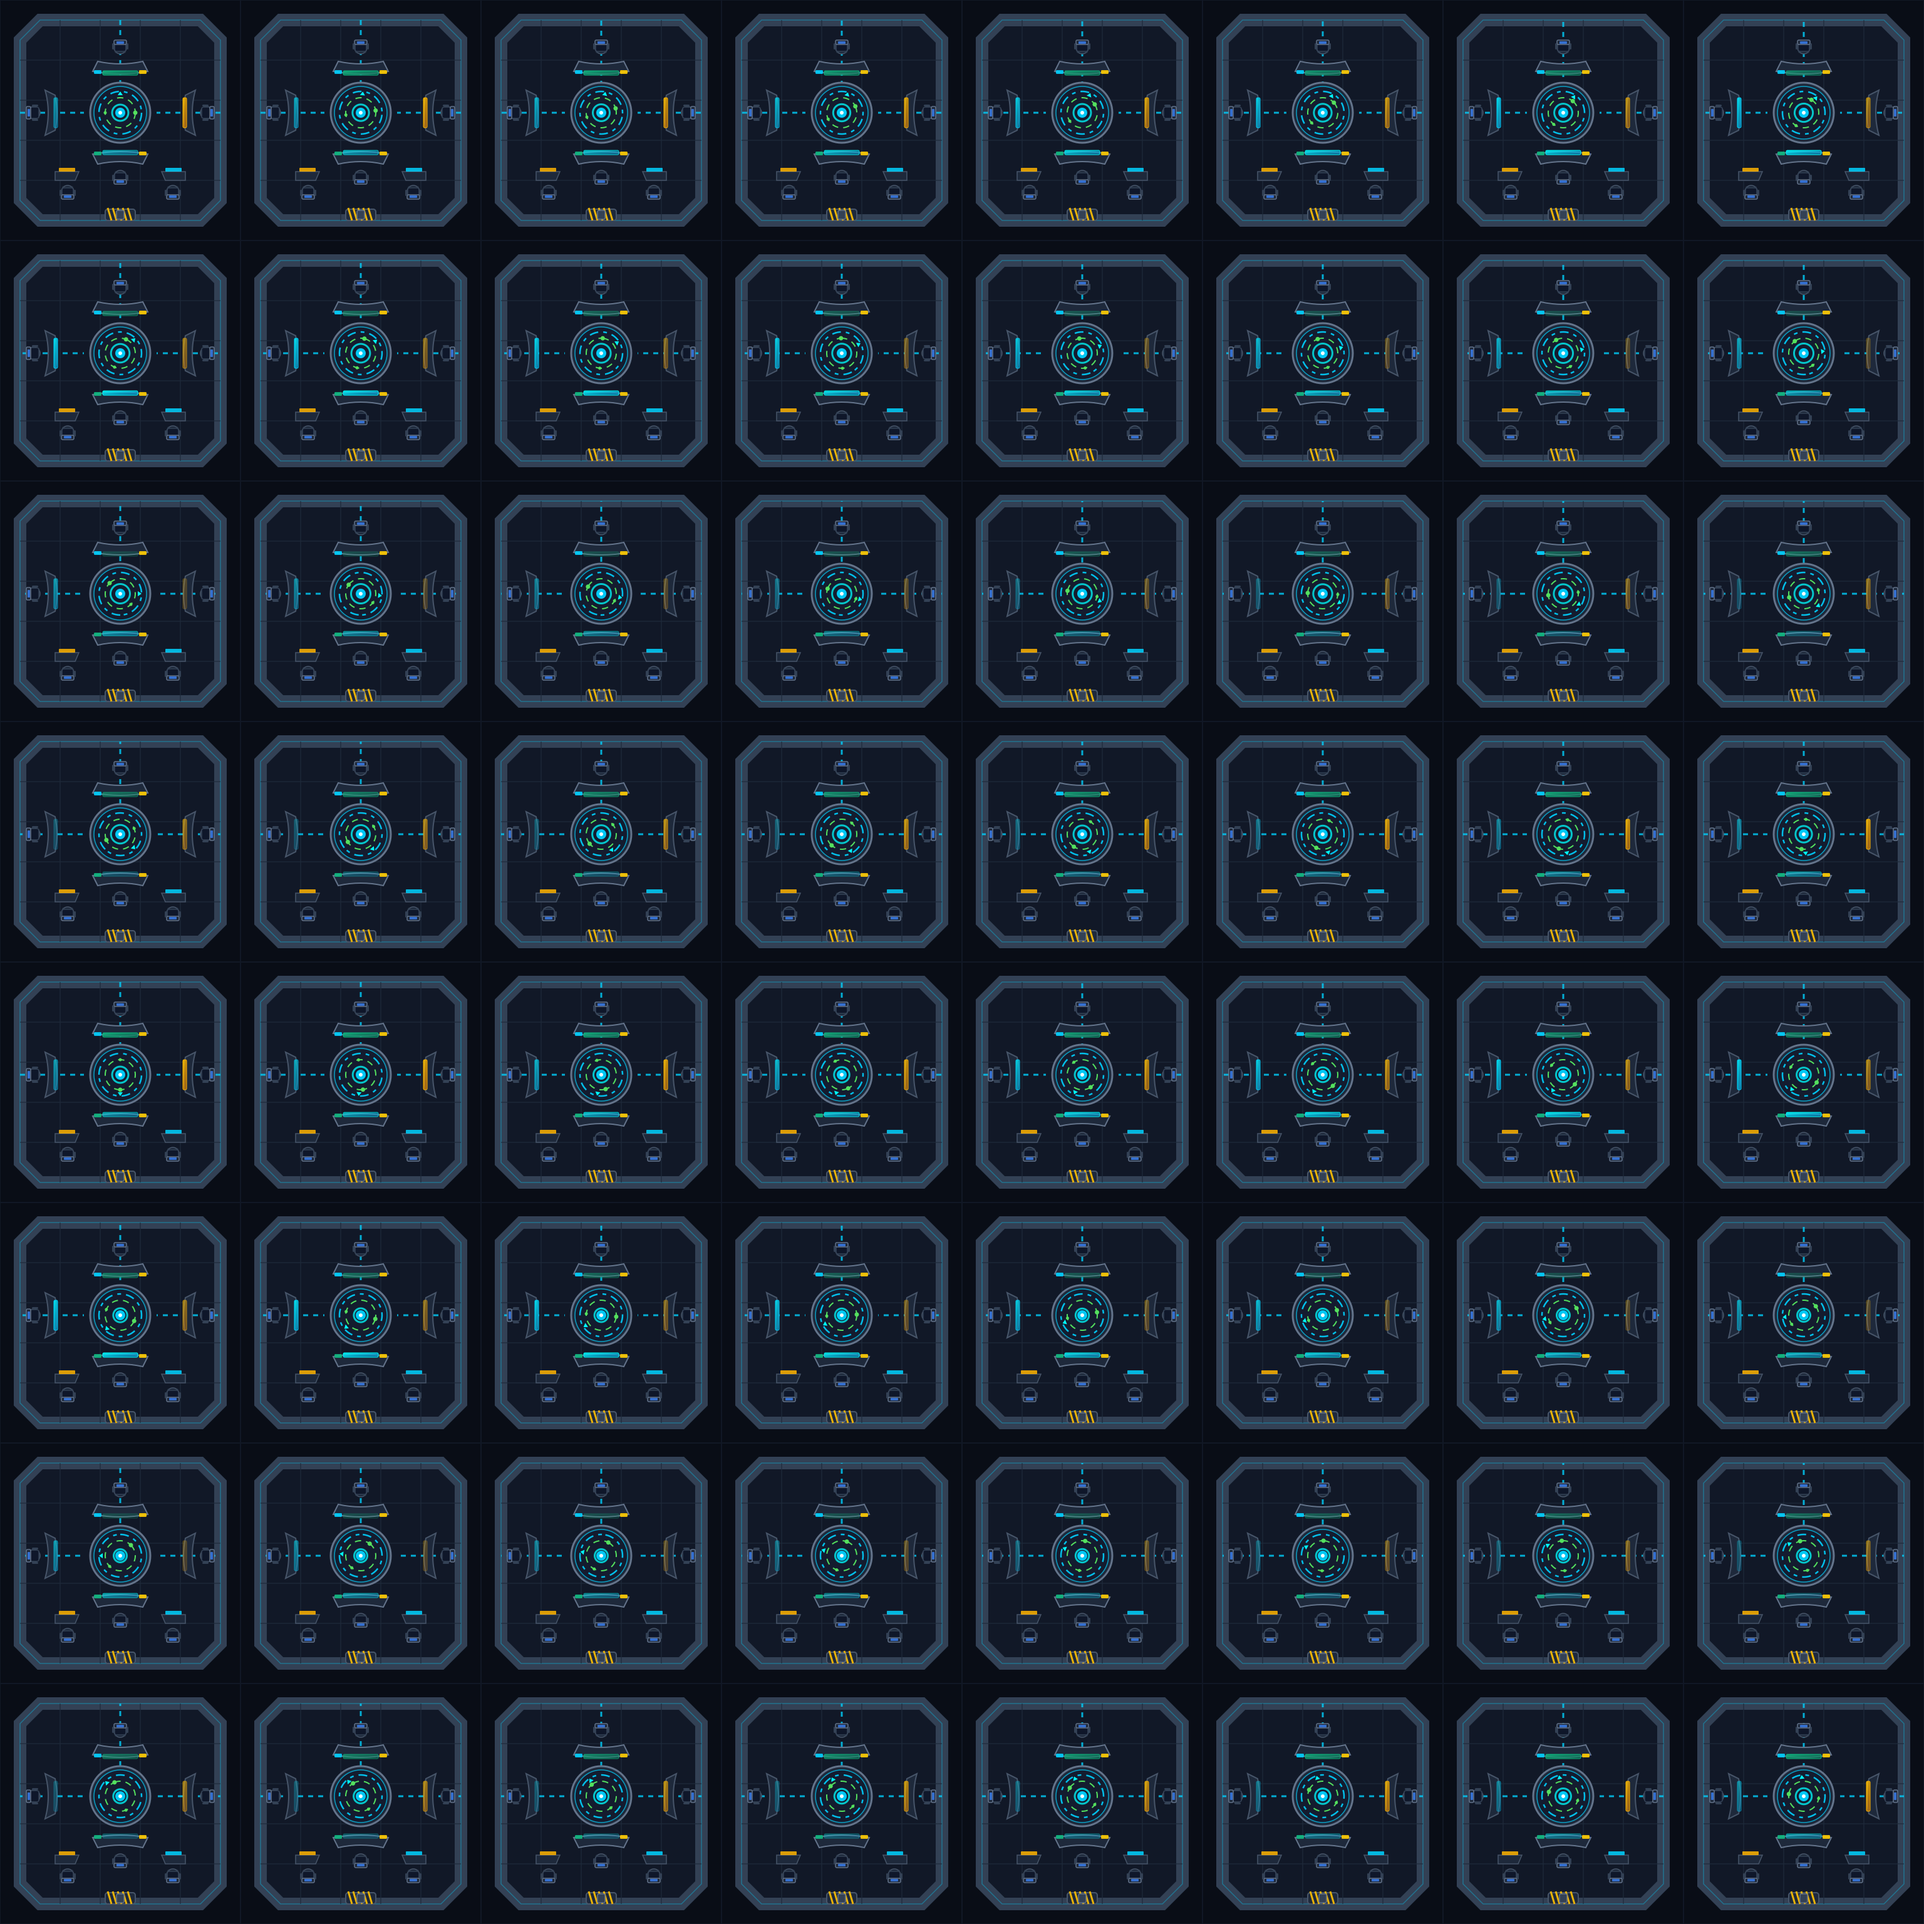
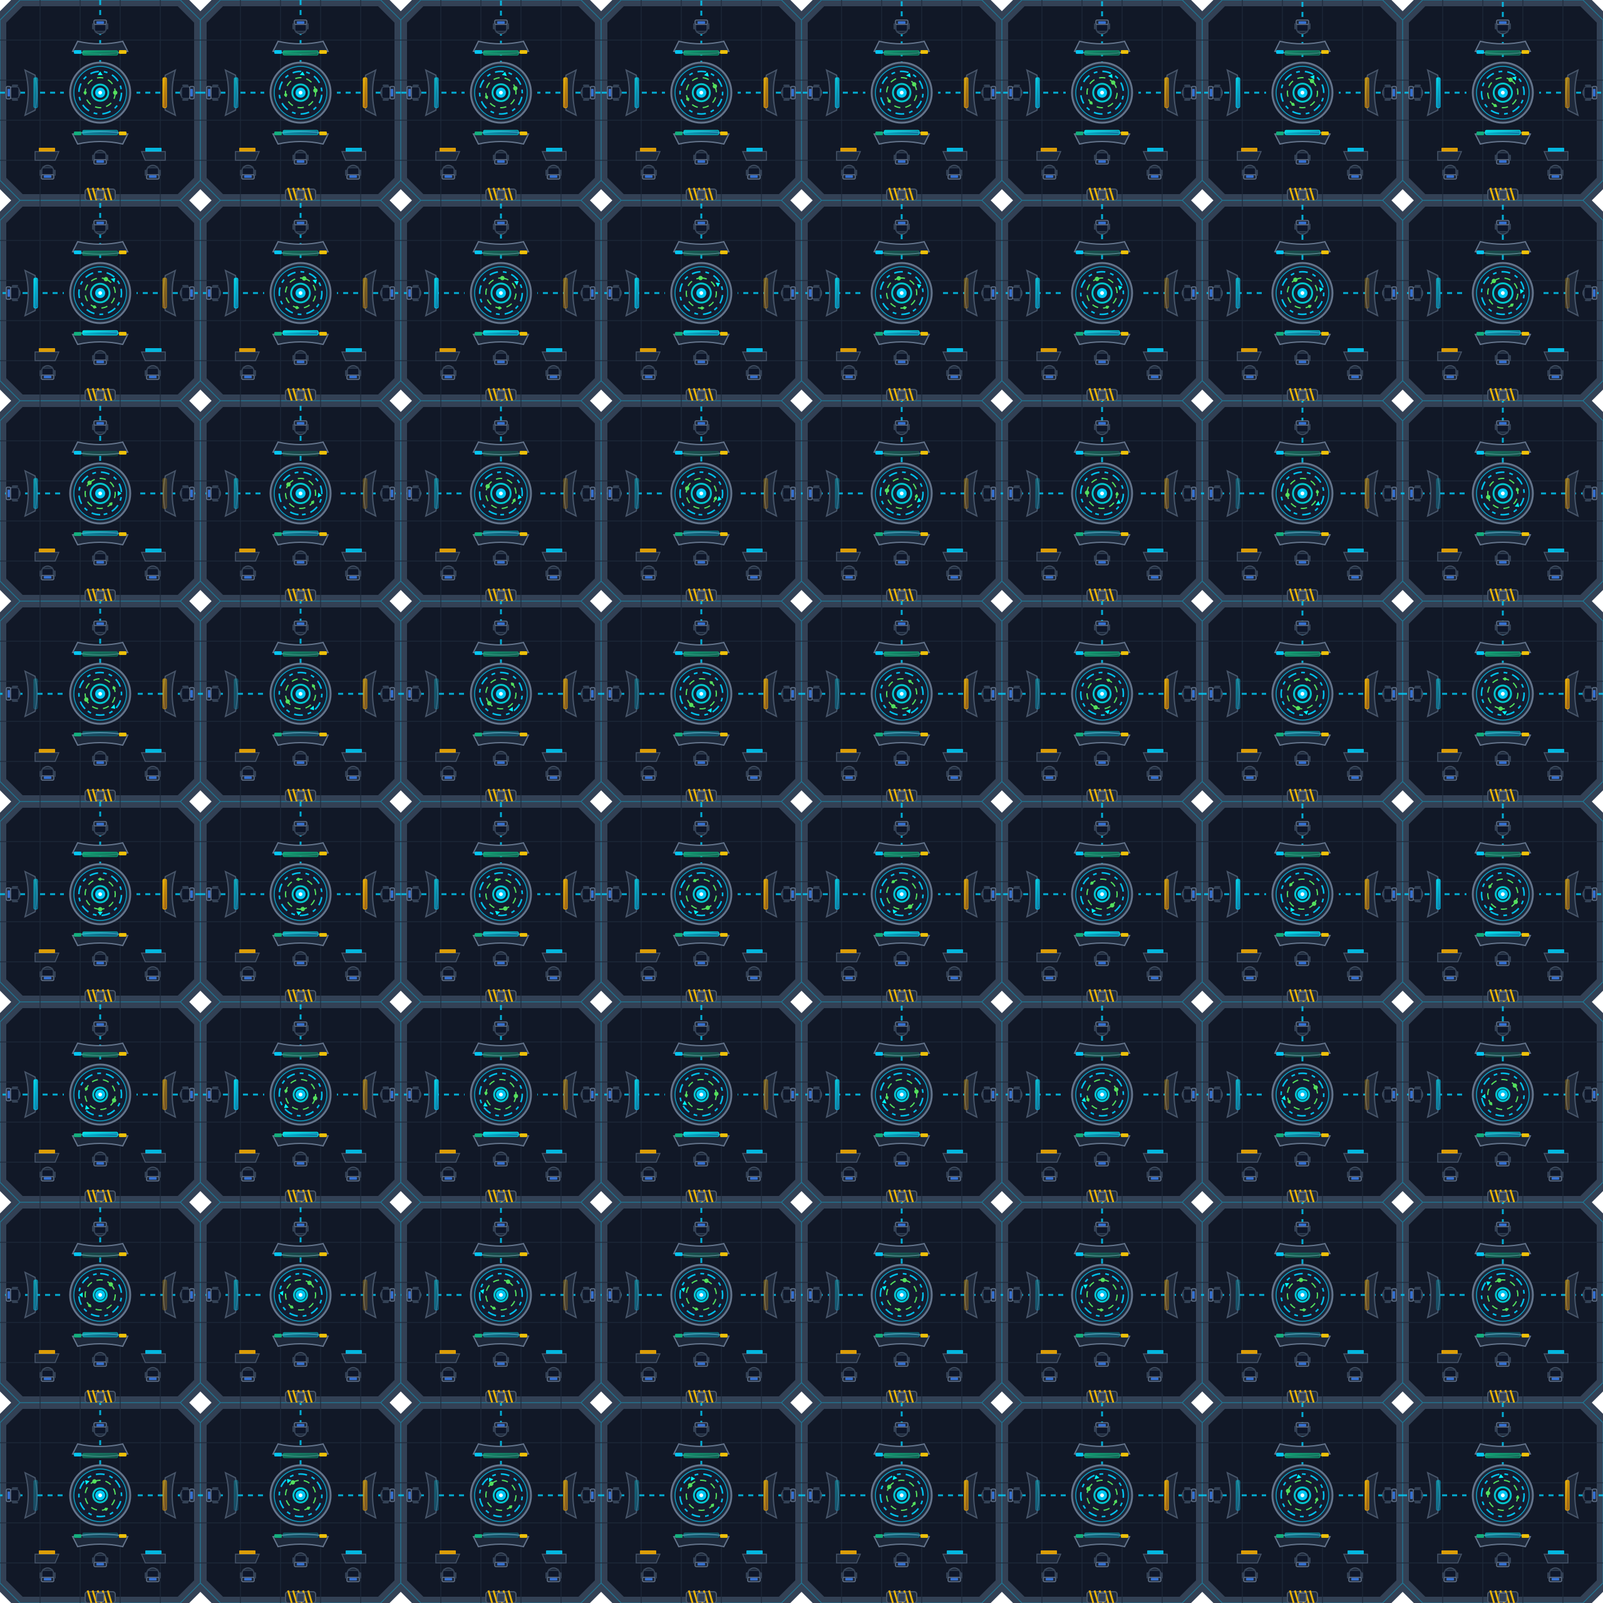
Refactor module sprites to use transparent corners and exact tiered sizes

diff --git a/src/resources/tileset-geometry.ts b/src/resources/tileset-geometry.ts
@@ -52,7 +52,9 @@ export const ANIM_64_FRAMES = {
 } as const;
 
 export const TILESET_GEOMETRY: TilesetGeometry[] = [
+  // Mothership interior map tiles: static 6*6 sheet at 64x64 cell size.
   { name: "ship-tiles", cols: 6, rows: 6, tileSize: 64 },
+  // UI selection rings and brackets: 32-frame animated 6*6 sheets across spans 1x1 through 4x4.
   { name: "ui-selection", tileSize: 256, ...ANIM_32_FRAMES },
   { name: "ui-selection-1x1", tileSize: 64, ...ANIM_32_FRAMES },
   { name: "ui-selection-2x2", tileSize: 128, ...ANIM_32_FRAMES },
@@ -67,6 +69,10 @@ export const TILESET_GEOMETRY: TilesetGeometry[] = [
   { name: "asteroid-small", tileSize: 64, ...ANIM_64_FRAMES },
   { name: "asteroid-medium", tileSize: 128, ...ANIM_64_FRAMES },
   { name: "asteroid-large", tileSize: 192, ...ANIM_64_FRAMES },
+  // Command module tiers: 64-frame animated 8*8 sheets across spans 4/5/6 (256/320/384 px cell size).
+  { name: "module-command-t1", tileSize: 256, ...ANIM_64_FRAMES },
+  { name: "module-command-t2", tileSize: 320, ...ANIM_64_FRAMES },
+  { name: "module-command-t3", tileSize: 384, ...ANIM_64_FRAMES },
 ];
 
 export const AUTO_TILESET_RULES: AutoTilesetRule[] = [
@@ -77,8 +83,6 @@ export const AUTO_TILESET_RULES: AutoTilesetRule[] = [
   { prefix: "mothership-", tileSize: 256, ...ANIM_32_FRAMES },
   // Vessel sprites: 32-frame animated 6*6 sheets at 64x64 cell size (1*1 world tile).
   { prefix: "vessel-", tileSize: 64, ...ANIM_32_FRAMES },
-  // Command module tiers: 64-frame animated 8*8 sheets at 384x384 cell size (6*6 tiles @ 64px).
-  { prefix: "module-command-", tileSize: 384, ...ANIM_64_FRAMES },
-  // Other mothership modules: canonical animated sheet.
+  // Mothership modules (e.g. module-base): canonical animated sheet across 4*4 world tiles (256px cell size).
   { prefix: "module-", tileSize: 256, ...ANIM_32_FRAMES },
 ];

diff --git a/tests/tileset_geometry_test.ts b/tests/tileset_geometry_test.ts
@@ -61,7 +61,9 @@ Deno.test("explicit catalog rows match their PNG dimensions", () => {
 });
 
 Deno.test("auto-registered PNGs match their rule's dimensions", async () => {
+  const explicit = new Set(TILESET_GEOMETRY.map((g) => `${g.name}.png`));
   for (const relPath of await listAssetPngs()) {
+    if (explicit.has(relPath)) continue;
     const basename = relPath.split("/").pop()!;
     const rule = AUTO_TILESET_RULES.find((r) => basename.startsWith(r.prefix));
     if (rule) checkGeometry(relPath, rule, relPath);

diff --git a/src/ship/ship-modules.ts b/src/ship/ship-modules.ts
@@ -69,7 +69,8 @@ interface ModuleVisuals {
 function moduleVisuals(data?: ModuleData): ModuleVisuals {
   if (data?.moduleType === COMMAND_MODULE_TYPE) {
     const tier = data.level >= 10 ? 3 : data.level >= 5 ? 2 : 1;
-    return { tileset: `module-command-t${tier}`, cols: 6, rows: 6 };
+    const span = tier === 3 ? 6 : tier === 2 ? 5 : 4;
+    return { tileset: `module-command-t${tier}`, cols: span, rows: span };
   }
   return {
     tileset: `module-${MODULE_ART_TYPE}`,

diff --git a/tools/svg_module_command_gen.py b/tools/svg_module_command_gen.py
@@ -106,10 +106,10 @@ def animate_svg_frame(base_svg: str, frame_idx: int, total_frames: int, tier: in
 
     # Center coordinates of the tactical table vary by tier
     if tier == 1:
-        cx, cy = 192, 160
+        cx, cy = 128, 96
         base_core_r = 10.0
     elif tier == 2:
-        cx, cy = 192, 180
+        cx, cy = 160, 148
         base_core_r = 13.0
     else:
         cx, cy = 192, 192
@@ -146,8 +146,11 @@ def main():
     parser.add_argument("--frames", type=int, default=64, help="Number of animation frames (default: 64)")
     parser.add_argument("--cols", type=int, default=8, help="Number of columns in output grid (default: 8)")
     parser.add_argument("--rows", type=int, default=8, help="Number of rows in output grid (default: 8)")
-    parser.add_argument("--size", type=int, default=384, help="Tile size in px (default: 384 for 6*6 tiles @ 64px)")
+    parser.add_argument("--size", type=int, default=None, help="Tile size in px (defaults by tier: 1:256, 2:320, 3:384)")
     args = parser.parse_args()
+
+    if args.size is None:
+        args.size = {1: 256, 2: 320, 3: 384}[args.tier]
 
     assert args.frames <= args.cols * args.rows, "Frames must fit within cols * rows"
 
